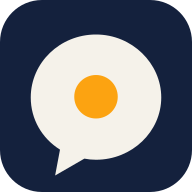
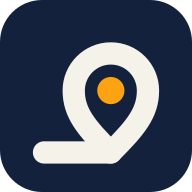
الاسم الجديد «هون» مع الشعار والأيقونة
Claude-Session: https://claude.ai/code/session_01CRRHp8JT2BJk8kKB2vcGyD

Changed region(s): [[0.1562, 0.1562, 0.8438, 0.9375], [0.375, 0.3125, 0.7188, 0.7188]]

diff --git a/public/index.html b/public/index.html
@@ -3,14 +3,14 @@
 <head>
 <meta charset="utf-8">
 <meta name="viewport" content="width=device-width, initial-scale=1, viewport-fit=cover">
-<title>Free to Talk — المكان بيحكي</title>
+<title>هون — المكان بيحكي</title>
 <meta name="description" content="شو صاير حواليك الآن؟ رسائل مجهولة بتنزرع بمكانها وبتختفي بعد 24 ساعة.">
 <meta name="theme-color" content="#14213d">
 <link rel="manifest" href="/manifest.webmanifest">
 <link rel="icon" href="/icon.svg" type="image/svg+xml">
-<link rel="apple-touch-icon" href="/icon-192.png">
+<link rel="apple-touch-icon" href="/apple-touch-icon.png">
 <meta name="apple-mobile-web-app-capable" content="yes">
-<meta name="apple-mobile-web-app-title" content="Free to Talk">
+<meta name="apple-mobile-web-app-title" content="هون">
 <link rel="preconnect" href="https://fonts.googleapis.com">
 <link rel="preconnect" href="https://fonts.gstatic.com" crossorigin>
 <link rel="stylesheet" href="https://fonts.googleapis.com/css2?family=Readex+Pro:wght@300;400;500;600;700&display=swap">
@@ -21,11 +21,8 @@
 
   <header class="top">
     <div class="brand">
-      <span class="logo" aria-hidden="true"><svg viewBox="0 0 32 32"><path d="M16 3C9.4 3 4 8.2 4 14.6c0 4 2.1 7.5 5.4 9.6L8.5 29l5.4-3.1c.7.1 1.4.2 2.1.2 6.6 0 12-5.2 12-11.5S22.6 3 16 3Z" fill="currentColor"/><circle cx="16" cy="14.5" r="4" fill="var(--accent)"/></svg></span>
-      <div>
-        <h1>Free to Talk</h1>
-        <p class="tag">المكان بيحكي</p>
-      </div>
+      <h1 class="wordmark"><span class="sr">هون</span></h1>
+      <p class="tag">المكان بيحكي</p>
     </div>
     <button class="icon-btn" id="meBtn" aria-label="حسابي">
       <svg viewBox="0 0 24 24"><circle cx="12" cy="8" r="4"/><path d="M4 21c1.5-4 4.5-6 8-6s6.5 2 8 6"/></svg>

diff --git a/public/app.css b/public/app.css
@@ -40,11 +40,14 @@ svg { width: 22px; height: 22px; fill: none; stroke: currentColor; stroke-width:
 
 /* header */
 .top { display: flex; align-items: center; justify-content: space-between; padding: 18px 16px 6px; }
-.brand { display: flex; align-items: center; gap: 10px; }
+.brand { display: flex; align-items: flex-end; gap: 10px; }
+.wordmark { width: 92px; height: 47px; margin: 0; background: url(/wordmark.svg) no-repeat center / contain; }
+@media (prefers-color-scheme: dark) { .wordmark { background-image: url(/wordmark-light.svg); } }
+.sr { position: absolute; width: 1px; height: 1px; overflow: hidden; clip: rect(0 0 0 0); }
 .logo { width: 42px; height: 42px; display: grid; place-items: center; color: var(--ink); }
 .logo svg { width: 42px; height: 42px; stroke: none; }
 h1 { margin: 0; font-size: 1.25rem; font-weight: 700; letter-spacing: -.01em; direction: ltr; text-align: right; }
-.tag { margin: -2px 0 0; font-size: .82rem; color: var(--muted); }
+.tag { margin: 0 0 4px; font-size: .82rem; color: var(--muted); }
 .icon-btn { width: 42px; height: 42px; border-radius: 50%; display: grid; place-items: center; color: var(--ink-2); }
 .icon-btn:active { background: var(--line); }
 
@@ -66,6 +69,7 @@ h1 { margin: 0; font-size: 1.25rem; font-weight: 700; letter-spacing: -.01em; di
 .chip i { width: 8px; height: 8px; border-radius: 50%; background: var(--c); }
 .chip.on { background: var(--c, var(--ink)); border-color: transparent; color: #fff; }
 .chip.on i { background: #fff; }
+.chip.on:not([style]) { color: var(--bg); }
 
 .sortbar { display: flex; align-items: center; justify-content: space-between; padding: 2px 16px 6px; }
 .sort { display: flex; gap: 14px; }

diff --git a/public/admin.html b/public/admin.html
@@ -4,7 +4,7 @@
 <meta charset="utf-8">
 <meta name="viewport" content="width=device-width, initial-scale=1">
 <meta name="robots" content="noindex">
-<title>لوحة التحكم — Free to Talk</title>
+<title>لوحة التحكم — هون</title>
 <link rel="icon" href="/icon.svg" type="image/svg+xml">
 <link rel="stylesheet" href="https://fonts.googleapis.com/css2?family=Readex+Pro:wght@400;500;600;700&display=swap">
 <link rel="stylesheet" href="/app.css">
@@ -24,7 +24,7 @@
 
   <section id="panel" hidden>
     <header class="adm-top">
-      <h1>Free to Talk <span>لوحة التحكم</span></h1>
+      <h1>هون <span>لوحة التحكم</span></h1>
       <button class="ghost small" id="logout">خروج</button>
     </header>
 

diff --git a/public/sw.js b/public/sw.js
@@ -1,6 +1,6 @@
 // Keeps the app shell available offline; messages always come fresh from the network.
-const CACHE = 'ftt-v1';
-const SHELL = ['/', '/app.css', '/app.js', '/icon.svg', '/manifest.webmanifest'];
+const CACHE = 'hon-v2';
+const SHELL = ['/', '/app.css', '/app.js', '/icon.svg', '/wordmark.svg', '/manifest.webmanifest'];
 self.addEventListener('install', (e) => { e.waitUntil(caches.open(CACHE).then((c) => c.addAll(SHELL)).then(() => self.skipWaiting())); });
 self.addEventListener('activate', (e) => {
   e.waitUntil(caches.keys().then((ks) => Promise.all(ks.filter((k) => k !== CACHE).map((k) => caches.delete(k)))).then(() => self.clients.claim()));

diff --git a/README.md b/README.md
@@ -1,4 +1,6 @@
-# Free to Talk — المكان بيحكي
+# هون (Hon) — المكان بيحكي
+
+![هون](public/wordmark.svg)
 
 تطبيق ويب للموبايل (PWA): رسائل مجهولة بتنزرع بالمكان اللي انكتبت فيه، وبتختفي بعد 24 ساعة هي وردودها. بدون أي حزم خارجية: Node.js 22 فقط (SQLite مدمجة).
 
